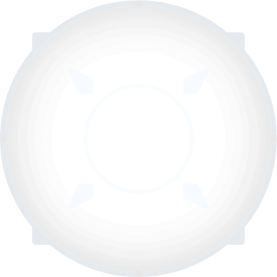
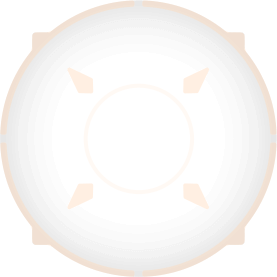
World map shows again; menus in wood, leather and parchment; book-width on laptops
- the world map is drawn on the page behind the game layer, and the game's dark
  background hid it (only the place card showed): the game layer is see-through
  on the map view; its place names are readable and never cut
- the GUI kit's purple frames, cards and dark buttons are recoloured to warm
  wood and leather (import_myart.py, warm); parchment text, brown tokens, a wood
  close button; reading text in Alegreya (calligraphic serif), buttons and
  labels in Alegreya Sans, titles in Cinzel
- on screens 900 px and wider a section is a centred column (860 px; 1180 with
  its details panel), not the full width

Claude-Session: https://claude.ai/code/session_01JA2Thj6vzEQeR2LT9rcQ2q

diff --git a/src/styles/skin/guikit.css b/src/styles/skin/guikit.css
@@ -174,3 +174,40 @@ h1, h2, h3, .section__title, .modal__header h2, .panel__header h2 { font-family:
 .section__main, .section__foot, .modal__body, .world-layout, .region-dossier, .locked-dossier, .location-mobile-list, .walk-card, .dialogue__body { --font-display: 'Alegreya Sans', 'Manrope', system-ui, sans-serif; }
 .section__main :is(h1, h2, h3, h4), .modal__body :is(h1, h2, h3, h4) { font-weight: 800; letter-spacing: .01em; text-transform: none; text-shadow: none; }
 .location-mobile-list strong { text-transform: none; font-weight: 800; }
+
+/* ----------------------------------------------------------------------------------
+   Medieval pass: wood, leather, parchment and gold instead of the kit's purple.
+   The kit's frames and dark buttons are recoloured to browns by scripts/art/import_myart.py
+   (warm); these tokens warm everything drawn in CSS to match. Reading text is Alegreya
+   (a calligraphic serif); buttons, labels and small print stay in Alegreya Sans. */
+:root {
+  --text: #f4e8cc;
+  --text-dim: #d2bd96;
+  --text-faint: #a89272;
+  --line: rgba(214, 170, 100, .38);
+  --line-soft: rgba(214, 170, 100, .16);
+  --panel-solid: #2b1f16;
+  --panel-bg: linear-gradient(180deg, #33251a 0%, #221810 100%);
+  --kit-ink: #140d08;
+  --kit-dark: rgba(30, 20, 12, .88);
+  --kit-glass: rgba(34, 24, 15, .82);
+  --ground: #120c08;
+  --font-ui: 'Alegreya', 'Cormorant Garamond', Georgia, serif;
+  --font-label: 'Alegreya Sans', 'Manrope', system-ui, sans-serif;
+}
+.section__main, .section__foot, .modal__body, .world-layout, .region-dossier, .locked-dossier, .location-mobile-list, .walk-card, .dialogue__body, .world-map { --font-display: 'Alegreya', 'Cormorant Garamond', Georgia, serif; }
+.button, .tabs button, .filter-pills button, .badge, .walk__label, .orb__item-label, .ledger, .place-tag small, small, .eyebrow { font-family: var(--font-label); }
+.button--secondary, .dialogue__choices button { color: var(--text); }
+.close-button { background: radial-gradient(circle at 50% 35%, #6a4c32, #2a1c12 70%); box-shadow: 0 0 0 2px var(--kit-ink), inset 0 0 0 1px rgba(255, 220, 160, .25), 0 3px 8px rgba(0, 0, 0, .45); color: var(--text); }
+.panel { background: rgba(26, 17, 10, .35); }
+.section__detail { background: rgba(22, 14, 8, .4); }
+.tabs, .filter-pills { background: rgba(20, 13, 8, .7); }
+.unit-plate, .turn-order, .battle-tell { background: var(--kit-dark); }
+/* World map names: readable, never cut. */
+.world-map strong, .location-node strong { font-family: var(--font-label); text-transform: none; max-width: none; white-space: nowrap; overflow: visible; }
+
+/* On a laptop or a wide tablet, menus are a book-like column, not the whole screen. */
+@media (min-width: 900px) {
+  .section { width: min(860px, 100%); }
+  .section.has-detail { width: min(1180px, 100%); }
+}

diff --git a/src/styles/index.css b/src/styles/index.css
@@ -1,6 +1,6 @@
 /* HD-2D design system. Tokens live in base/tokens.css; see DESIGN.md.
    Files are imported in cascade order: base, layout, components, screens, then breakpoints. */
-@import url('https://fonts.googleapis.com/css2?family=Cinzel:wght@600;700;800&family=Alegreya+Sans:ital,wght@0,400;0,500;0,700;0,800;1,400&family=Cormorant+Garamond:ital,wght@0,600;0,700;1,500;1,600&family=Manrope:wght@400;500;600;700&display=swap');
+@import url('https://fonts.googleapis.com/css2?family=Cinzel:wght@600;700;800&family=Alegreya:ital,wght@0,400;0,500;0,700;1,400&family=Alegreya+Sans:ital,wght@0,400;0,500;0,700;0,800;1,400&family=Cormorant+Garamond:ital,wght@0,600;0,700;1,500;1,600&family=Manrope:wght@400;500;600;700&display=swap');
 @import './base/tokens.css';
 @import './base/base.css';
 @import './components/art.css';

diff --git a/src/styles/layout/shell.css b/src/styles/layout/shell.css
@@ -9,6 +9,8 @@
    others is on screen (the :has() rule below). */
 
 .game { position: fixed; inset: 0; height: 100dvh; overflow: hidden; isolation: isolate; background: var(--ground); }
+/* The world map is drawn on the page itself, behind the game layer (MapScreen portals it to <body> at z-index -1): the game layer must be see-through there. */
+.game--map { background: transparent; }
 .game__place { position: absolute; inset: 0; z-index: var(--z-scene); overflow: hidden auto; overscroll-behavior: contain; }
 .game--map .game__place { padding: calc(var(--hud-top) + 56px) calc(var(--safe-r) + var(--gutter)) calc(var(--hud-bottom) + 84px) calc(var(--safe-l) + var(--gutter)); }
 

diff --git a/scripts/art/import_myart.py b/scripts/art/import_myart.py
@@ -374,6 +374,23 @@ GUI_FILES = {
 }
 
 
+def warm(path, hue=0.075, value=1.04):
+    """Shifts a kit image's cool purples and greys to warm wood browns (golds and reds stay)."""
+    import colorsys
+    im = Image.open(path).convert('RGBA')
+    px = []
+    for r, g, b, a in im.getdata():
+        h, s_, v = colorsys.rgb_to_hsv(r / 255, g / 255, b / 255)
+        cool = 0.55 < h < 0.95 or s_ < 0.18  # purples, blues and greys
+        if a and cool:
+            nr, ng, nb = colorsys.hsv_to_rgb(hue, min(1, 0.32 + s_ * 0.5), min(1, v * value))
+            px.append((int(nr * 255), int(ng * 255), int(nb * 255), a))
+        else:
+            px.append((r, g, b, a))
+    im.putdata(px)
+    im.save(path)
+
+
 def interface():
     import glob
     for name, rel in GUI_FILES.items():
@@ -383,6 +400,10 @@ def interface():
             print('missing', rel)
             continue
         shutil.copyfile(source, out(f'gui/{name}'))
+    # The kit's purple-grey frames, cards and dark buttons, recoloured as wood and leather
+    # (warm browns with the gold trim kept), to fit a medieval RPG.
+    for name in ['panel.png', 'popup.png', 'card.png', 'btn-dark.png', 'btn-slate.png', 'btn-gray.png', 'btn-square.png', 'orb-dark.png', 'stick-base.png']:
+        warm(out(f'gui/{name}'), value=0.62 if name == 'btn-slate.png' else 1.04)
     for font in ['JosefinSans-Bold.ttf']:
         shutil.copyfile(os.path.join(GUI, 'Font', font), out(f'fonts/{font}'))
 
